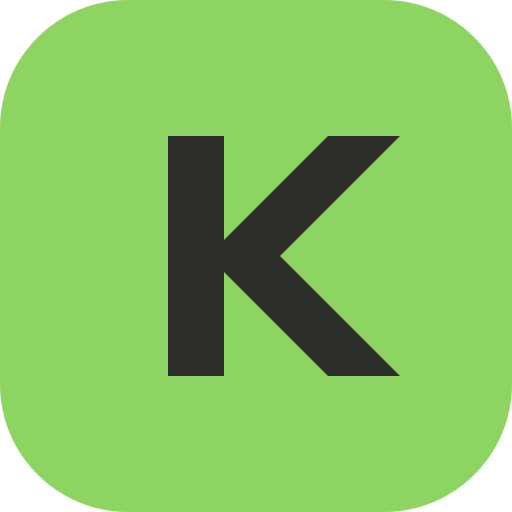
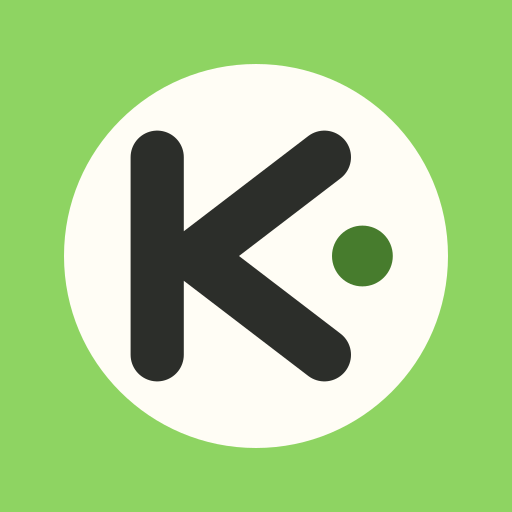
fix(seo): serve public crawler routes and refresh brand assets

diff --git a/src/app/page.tsx b/src/app/page.tsx
@@ -1,6 +1,14 @@
 import type { Metadata } from 'next'
+import { publicSiteOrigin } from '@/lib/publicSite'
 import { getLandingRiveAssets } from '@/components/landing/landingRiveAssets'
 import MindmarketLanding from '@/components/landing/MindmarketLanding'
+
+const socialImage = {
+  url: publicSiteOrigin + '/images/kivora-social-2026.png',
+  width: 1200,
+  height: 630,
+  alt: 'Kivora English. Seu inglês. Um mundo mais aberto.',
+}
 
 export const metadata: Metadata = {
   title: {
@@ -9,12 +17,14 @@ export const metadata: Metadata = {
   description:
     'Aprenda inglês do A1 ao C2 com exercícios interativos, revisões inteligentes, trilhas personalizadas e conversação com IA.',
   openGraph: {
+    images: [socialImage],
     title: 'Kivora English | Seu inglês ganha vida.',
     description:
       'Aprenda fazendo: revisões inteligentes, novas descobertas e conversas em inglês.',
   },
   twitter: {
-    card: 'summary',
+    card: 'summary_large_image',
+    images: [socialImage],
     title: 'Kivora English | Seu inglês ganha vida.',
     description:
       'Aprenda fazendo: revisões inteligentes, novas descobertas e conversas em inglês.',

diff --git a/src/app/manifest.ts b/src/app/manifest.ts
@@ -14,25 +14,25 @@ export default function manifest(): MetadataRoute.Manifest {
     theme_color: BRAND_PRIMARY,
     icons: [
       {
-        src: '/icon-192.png',
+        src: '/icon-192.png?v=2',
         sizes: '192x192',
         type: 'image/png',
         purpose: 'maskable',
       },
       {
-        src: '/icon-512.png',
+        src: '/icon-512.png?v=2',
         sizes: '512x512',
         type: 'image/png',
         purpose: 'maskable',
       },
       {
-        src: '/icon-192.png',
+        src: '/icon-192.png?v=2',
         sizes: '192x192',
         type: 'image/png',
         purpose: 'any',
       },
       {
-        src: '/icon-512.png',
+        src: '/icon-512.png?v=2',
         sizes: '512x512',
         type: 'image/png',
         purpose: 'any',

diff --git a/public/sw.js b/public/sw.js
@@ -9,11 +9,11 @@ const TTS_MAX_ENTRIES = 60
 const PRECACHE_URLS = [
   OFFLINE_URL,
   '/manifest.webmanifest',
-  '/icon-192.png',
-  '/icon-512.png',
+  '/icon-192.png?v=2',
+  '/icon-512.png?v=2',
   '/notification-badge-96.png',
-  '/apple-touch-icon.png',
-  '/favicon.svg',
+  '/apple-touch-icon.png?v=2',
+  '/favicon.svg?v=2',
 ]
 
 function isSameOrigin(url) {
@@ -175,7 +175,7 @@ self.addEventListener('push', (event) => {
   const notificationOptions = {
     body,
     tag,
-    icon: typeof data.icon === 'string' ? data.icon : '/icon-192.png',
+    icon: typeof data.icon === 'string' ? data.icon : '/icon-192.png?v=2',
     badge: typeof data.badge === 'string' ? data.badge : '/notification-badge-96.png',
     data: {
       url,

diff --git a/src/proxy.ts b/src/proxy.ts
@@ -19,6 +19,6 @@ export async function proxy(request: NextRequest) {
 
 export const config = {
   matcher: [
-    '/((?!_next/static|_next/image|favicon.ico|.*\\.(?:svg|png|jpg|jpeg|gif|webp)$).*)',
+    '/((?!$|_next/(?:static|image)(?:/|$)|(?:images|brand)(?:/|$)|(?:robots\\.txt|sitemap\\.xml|manifest\\.webmanifest|favicon\\.(?:ico|svg)|icon\\.(?:svg|png)|apple-icon\\.png|apple-touch-icon\\.png|icon-(?:192|512)\\.png|pwa-(?:192x192|512x512)\\.png|notification-badge(?:-96\\.png|\\.svg)|(?:file|globe|next|vercel|window)\\.svg)$).*)',
   ],
 }

diff --git a/src/app/robots.ts b/src/app/robots.ts
@@ -1,0 +1,13 @@
+import type { MetadataRoute } from 'next'
+import { publicSiteOrigin, publicSitePaths } from '@/lib/publicSite'
+
+export default function robots(): MetadataRoute.Robots {
+  return {
+    rules: {
+      userAgent: '*',
+      allow: [...publicSitePaths.map(path => path + '$'), '/_next/static/', '/_next/image', '/images/', '/brand/'],
+      disallow: '/',
+    },
+    sitemap: publicSiteOrigin + '/sitemap.xml',
+  }
+}

diff --git a/src/app/sitemap.ts b/src/app/sitemap.ts
@@ -1,0 +1,6 @@
+import type { MetadataRoute } from 'next'
+import { publicSiteOrigin, publicSitePaths } from '@/lib/publicSite'
+
+export default function sitemap(): MetadataRoute.Sitemap {
+  return publicSitePaths.map(path => ({ url: new URL(path, publicSiteOrigin).href }))
+}

diff --git a/src/lib/publicSite.ts b/src/lib/publicSite.ts
@@ -1,0 +1,2 @@
+export const publicSiteOrigin = 'https://english-kivora.vercel.app'
+export const publicSitePaths = ['/', '/privacy', '/terms', '/login', '/register'] as const
